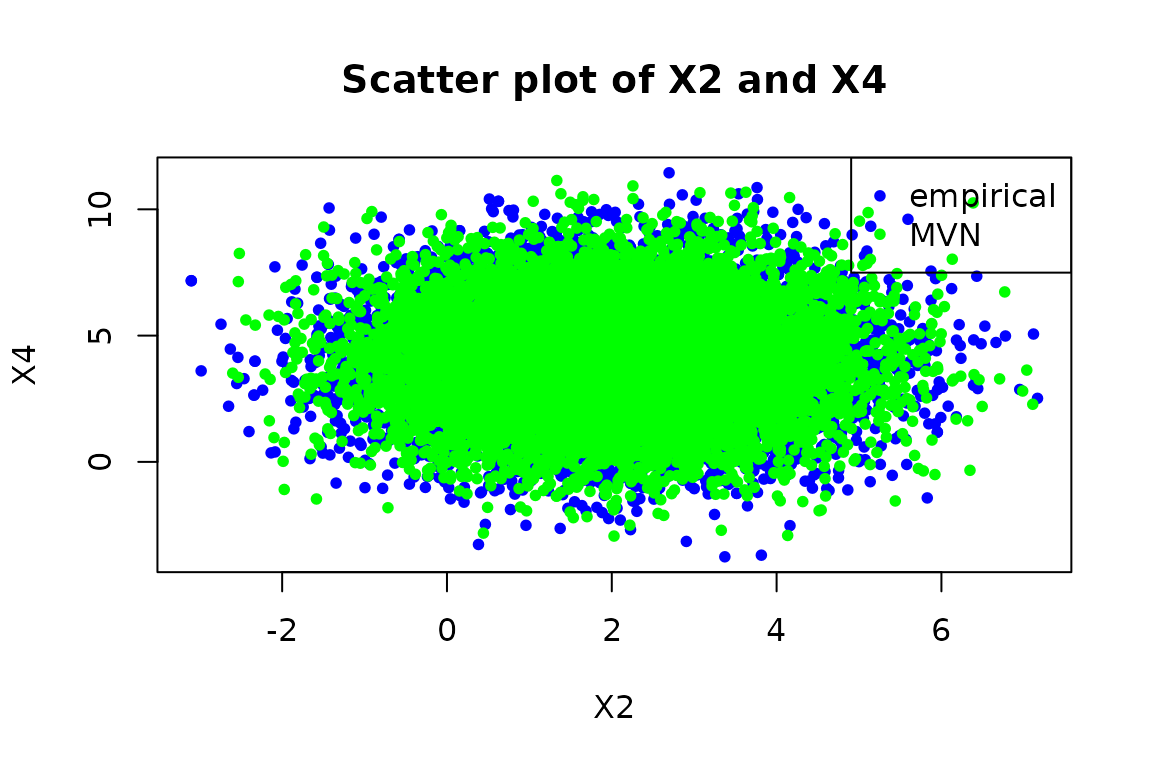
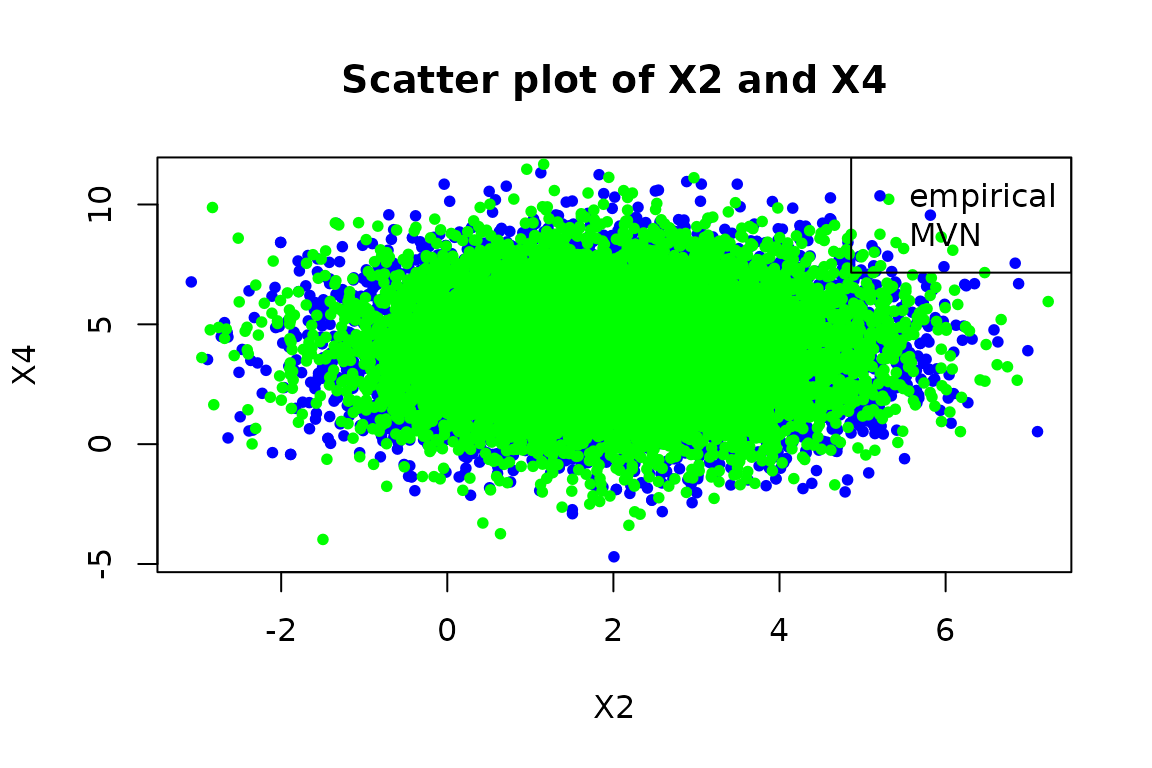
updates

diff --git a/docs/articles/example.html b/docs/articles/example.html
@@ -120,27 +120,27 @@
 <p>We have a sample of size <span class="math inline">\(n=100000\)</span> from the DGP. We show some observations from this sample with:</p>
 <div class="sourceCode" id="cb4"><pre class="downlit sourceCode r">
 <code class="sourceCode R"><span><span class="fu"><a href="https://rdrr.io/r/utils/head.html" class="external-link">head</a></span><span class="op">(</span><span class="va">data</span>, n<span class="op">=</span><span class="fl">6</span><span class="op">)</span></span>
-<span><span class="co">#&gt;        [,1] [,2] [,3] [,4] [,5]</span></span>
-<span><span class="co">#&gt; [1,] -0.379 3.34 4.66 3.53 2.03</span></span>
-<span><span class="co">#&gt; [2,] -1.244 1.72 1.78 5.94 3.10</span></span>
-<span><span class="co">#&gt; [3,]  1.416 4.76 1.97 2.19 7.57</span></span>
-<span><span class="co">#&gt; [4,]  0.782 3.62 2.28 5.15 3.54</span></span>
-<span><span class="co">#&gt; [5,]  0.972 2.41 2.19 3.54 1.30</span></span>
-<span><span class="co">#&gt; [6,]  1.460 1.46 4.06 5.47 5.20</span></span></code></pre></div>
+<span><span class="co">#&gt;        [,1]  [,2] [,3] [,4] [,5]</span></span>
+<span><span class="co">#&gt; [1,] -0.382 2.804 2.01 6.40 6.48</span></span>
+<span><span class="co">#&gt; [2,]  1.600 0.994 1.09 2.20 5.99</span></span>
+<span><span class="co">#&gt; [3,]  1.328 1.206 4.00 7.73 5.64</span></span>
+<span><span class="co">#&gt; [4,]  2.466 1.920 2.89 4.72 4.59</span></span>
+<span><span class="co">#&gt; [5,]  1.447 2.076 6.27 3.34 3.92</span></span>
+<span><span class="co">#&gt; [6,]  0.570 4.416 3.73 5.29 7.44</span></span></code></pre></div>
 <p>Now, we also construct a empirical distribution from the sample with:</p>
 <div class="sourceCode" id="cb5"><pre class="downlit sourceCode r">
 <code class="sourceCode R"><span><span class="va">emp</span> <span class="op">&lt;-</span> <span class="fu"><a href="../reference/empirical_dist.html">empirical_dist</a></span><span class="op">(</span><span class="va">data</span><span class="op">)</span></span>
 <span><span class="fu"><a href="https://rdrr.io/r/base/print.html" class="external-link">print</a></span><span class="op">(</span><span class="va">emp</span><span class="op">)</span></span>
 <span><span class="co">#&gt; Empirical Distribution </span></span>
 <span><span class="co">#&gt; Mean:</span></span>
-<span><span class="co">#&gt; [1] 1.00 2.00 3.00 4.01 4.99</span></span>
+<span><span class="co">#&gt; [1] 0.999 2.006 2.995 3.999 5.001</span></span>
 <span><span class="co">#&gt; Covariance:</span></span>
-<span><span class="co">#&gt;           [,1]      [,2]      [,3]     [,4]     [,5]</span></span>
-<span><span class="co">#&gt; [1,]  0.994590 -0.000318  0.000127 -0.00888  0.00530</span></span>
-<span><span class="co">#&gt; [2,] -0.000318  1.992270  0.006073 -0.01008 -0.00917</span></span>
-<span><span class="co">#&gt; [3,]  0.000127  0.006073  2.991805  0.00015 -0.01201</span></span>
-<span><span class="co">#&gt; [4,] -0.008884 -0.010080  0.000150  3.99985 -0.00469</span></span>
-<span><span class="co">#&gt; [5,]  0.005302 -0.009167 -0.012007 -0.00469  4.98894</span></span>
+<span><span class="co">#&gt;         [,1]      [,2]     [,3]      [,4]     [,5]</span></span>
+<span><span class="co">#&gt; [1,] 0.99943  0.001068  0.00755  0.003369  0.00700</span></span>
+<span><span class="co">#&gt; [2,] 0.00107  2.015409 -0.00392 -0.000896  0.01274</span></span>
+<span><span class="co">#&gt; [3,] 0.00755 -0.003921  2.98299  0.003300  0.00339</span></span>
+<span><span class="co">#&gt; [4,] 0.00337 -0.000896  0.00330  3.997603 -0.01367</span></span>
+<span><span class="co">#&gt; [5,] 0.00700  0.012742  0.00339 -0.013667  4.99170</span></span>
 <span><span class="co">#&gt; Number of observations: 100000</span></span></code></pre></div>
 <p>Let’s show the supports of the empirical distribution and the MVN:</p>
 <div class="sourceCode" id="cb6"><pre class="downlit sourceCode r">
@@ -153,17 +153,17 @@
 <span><span class="fu"><a href="https://rdrr.io/r/base/row.names.html" class="external-link">row.names</a></span><span class="op">(</span><span class="va">df</span><span class="op">)</span> <span class="op">&lt;-</span> <span class="fu"><a href="https://rdrr.io/r/base/paste.html" class="external-link">paste0</a></span><span class="op">(</span><span class="st">"param"</span>,<span class="fl">1</span><span class="op">:</span><span class="fu"><a href="https://rdrr.io/r/base/dim.html" class="external-link">dim</a></span><span class="op">(</span><span class="fu"><a href="../reference/sup.html">sup</a></span><span class="op">(</span><span class="va">M</span><span class="op">)</span><span class="op">)</span><span class="op">)</span></span>
 <span><span class="fu"><a href="https://rdrr.io/r/base/print.html" class="external-link">print</a></span><span class="op">(</span><span class="va">df</span><span class="op">)</span></span>
 <span><span class="co">#&gt;        supremum.mvn supremum.emp infimum.mvn infimum.emp</span></span>
-<span><span class="co">#&gt; param1          Inf         5.24        -Inf       -3.24</span></span>
-<span><span class="co">#&gt; param2          Inf         7.97        -Inf       -3.91</span></span>
-<span><span class="co">#&gt; param3          Inf        10.40        -Inf       -4.81</span></span>
-<span><span class="co">#&gt; param4          Inf        12.12        -Inf       -4.00</span></span>
-<span><span class="co">#&gt; param5          Inf        14.41        -Inf       -4.56</span></span></code></pre></div>
+<span><span class="co">#&gt; param1          Inf         5.38        -Inf       -3.36</span></span>
+<span><span class="co">#&gt; param2          Inf         7.76        -Inf       -4.08</span></span>
+<span><span class="co">#&gt; param3          Inf         9.96        -Inf       -4.12</span></span>
+<span><span class="co">#&gt; param4          Inf        12.80        -Inf       -4.70</span></span>
+<span><span class="co">#&gt; param5          Inf        16.21        -Inf       -4.28</span></span></code></pre></div>
 <p>Let’s compare the mean and covariance-variance matrices of both the MVN and the empirical distribution of the MVN. First, let’s look at the means.</p>
 <div class="sourceCode" id="cb7"><pre class="downlit sourceCode r">
 <code class="sourceCode R"><span><span class="fu"><a href="https://rdrr.io/r/base/mean.html" class="external-link">mean</a></span><span class="op">(</span><span class="va">M</span><span class="op">)</span></span>
 <span><span class="co">#&gt; [1] 1 2 3 4 5</span></span>
 <span><span class="fu"><a href="https://rdrr.io/r/base/mean.html" class="external-link">mean</a></span><span class="op">(</span><span class="va">emp</span><span class="op">)</span></span>
-<span><span class="co">#&gt; [1] 1.00 2.00 3.00 4.01 4.99</span></span></code></pre></div>
+<span><span class="co">#&gt; [1] 0.999 2.006 2.995 3.999 5.001</span></span></code></pre></div>
 <p>As expected, pretty close. Now let’s look at the variance-covariance:</p>
 <div class="sourceCode" id="cb8"><pre class="downlit sourceCode r">
 <code class="sourceCode R"><span><span class="fu"><a href="https://rdrr.io/r/stats/vcov.html" class="external-link">vcov</a></span><span class="op">(</span><span class="va">M</span><span class="op">)</span></span>
@@ -174,12 +174,12 @@
 <span><span class="co">#&gt; [4,]    0    0    0    4    0</span></span>
 <span><span class="co">#&gt; [5,]    0    0    0    0    5</span></span>
 <span><span class="fu"><a href="https://rdrr.io/r/stats/vcov.html" class="external-link">vcov</a></span><span class="op">(</span><span class="va">emp</span><span class="op">)</span></span>
-<span><span class="co">#&gt;           [,1]      [,2]      [,3]     [,4]     [,5]</span></span>
-<span><span class="co">#&gt; [1,]  0.994590 -0.000318  0.000127 -0.00888  0.00530</span></span>
-<span><span class="co">#&gt; [2,] -0.000318  1.992270  0.006073 -0.01008 -0.00917</span></span>
-<span><span class="co">#&gt; [3,]  0.000127  0.006073  2.991805  0.00015 -0.01201</span></span>
-<span><span class="co">#&gt; [4,] -0.008884 -0.010080  0.000150  3.99985 -0.00469</span></span>
-<span><span class="co">#&gt; [5,]  0.005302 -0.009167 -0.012007 -0.00469  4.98894</span></span></code></pre></div>
+<span><span class="co">#&gt;         [,1]      [,2]     [,3]      [,4]     [,5]</span></span>
+<span><span class="co">#&gt; [1,] 0.99943  0.001068  0.00755  0.003369  0.00700</span></span>
+<span><span class="co">#&gt; [2,] 0.00107  2.015409 -0.00392 -0.000896  0.01274</span></span>
+<span><span class="co">#&gt; [3,] 0.00755 -0.003921  2.98299  0.003300  0.00339</span></span>
+<span><span class="co">#&gt; [4,] 0.00337 -0.000896  0.00330  3.997603 -0.01367</span></span>
+<span><span class="co">#&gt; [5,] 0.00700  0.012742  0.00339 -0.013667  4.99170</span></span></code></pre></div>
 <p>The true variances of the population defined by the MVN <span class="math inline">\(M\)</span> is the diagonal of the variance-covariance matrix:</p>
 <div class="sourceCode" id="cb9"><pre class="downlit sourceCode r">
 <code class="sourceCode R"><span><span class="fu"><a href="https://rdrr.io/r/base/diag.html" class="external-link">diag</a></span><span class="op">(</span><span class="fu"><a href="https://rdrr.io/r/stats/vcov.html" class="external-link">vcov</a></span><span class="op">(</span><span class="va">M</span><span class="op">)</span><span class="op">)</span></span>
@@ -188,36 +188,36 @@
 <div class="sourceCode" id="cb10"><pre class="downlit sourceCode r">
 <code class="sourceCode R"><span><span class="va">mu.emp</span> <span class="op">&lt;-</span> <span class="fu"><a href="https://rdrr.io/r/base/mean.html" class="external-link">mean</a></span><span class="op">(</span><span class="va">emp</span><span class="op">)</span></span>
 <span><span class="fu"><a href="../reference/expectation.html">expectation</a></span><span class="op">(</span><span class="va">emp</span>, <span class="kw">function</span><span class="op">(</span><span class="va">x</span><span class="op">)</span> <span class="op">(</span><span class="va">x</span> <span class="op">-</span> <span class="va">mu.emp</span><span class="op">)</span><span class="op">^</span><span class="fl">2</span><span class="op">)</span></span>
-<span><span class="co">#&gt; [1] 0.995 1.992 2.992 4.000 4.989</span></span>
+<span><span class="co">#&gt; [1] 0.999 2.015 2.983 3.998 4.992</span></span>
 <span><span class="fu"><a href="../reference/expectation.html">expectation</a></span><span class="op">(</span><span class="va">M</span>, <span class="kw">function</span><span class="op">(</span><span class="va">x</span><span class="op">)</span> <span class="op">(</span><span class="va">x</span> <span class="op">-</span> <span class="fu"><a href="https://rdrr.io/r/base/mean.html" class="external-link">mean</a></span><span class="op">(</span><span class="va">M</span><span class="op">)</span><span class="op">)</span><span class="op">^</span><span class="fl">2</span>, control <span class="op">=</span> <span class="fu"><a href="https://rdrr.io/r/base/list.html" class="external-link">list</a></span><span class="op">(</span>n <span class="op">=</span> <span class="va">n</span><span class="op">)</span><span class="op">)</span></span>
-<span><span class="co">#&gt; [1] 1.00 2.00 3.00 4.00 5.02</span></span></code></pre></div>
+<span><span class="co">#&gt; [1] 1.01 1.99 2.99 4.00 4.99</span></span></code></pre></div>
 <p>We see that these are pretty good estimates, as the expectation is actually a Monte Carlo approximation. We can see the CI’s with:</p>
 <div class="sourceCode" id="cb11"><pre class="downlit sourceCode r">
 <code class="sourceCode R"><span><span class="fu"><a href="../reference/expectation.html">expectation</a></span><span class="op">(</span><span class="va">emp</span>, <span class="kw">function</span><span class="op">(</span><span class="va">x</span><span class="op">)</span> <span class="op">(</span><span class="va">x</span> <span class="op">-</span> <span class="va">mu.emp</span><span class="op">)</span><span class="op">^</span><span class="fl">2</span>, control <span class="op">=</span> <span class="fu"><a href="https://rdrr.io/r/base/list.html" class="external-link">list</a></span><span class="op">(</span>compute_stats <span class="op">=</span> <span class="cn">TRUE</span><span class="op">)</span><span class="op">)</span></span>
 <span><span class="co">#&gt; $value</span></span>
-<span><span class="co">#&gt; [1] 0.995 1.992 2.992 4.000 4.989</span></span>
+<span><span class="co">#&gt; [1] 0.999 2.015 2.983 3.998 4.992</span></span>
 <span><span class="co">#&gt; </span></span>
 <span><span class="co">#&gt; $ci</span></span>
 <span><span class="co">#&gt;       [,1] [,2]</span></span>
-<span><span class="co">#&gt; [1,] 0.986 1.00</span></span>
-<span><span class="co">#&gt; [2,] 1.975 2.01</span></span>
-<span><span class="co">#&gt; [3,] 2.966 3.02</span></span>
-<span><span class="co">#&gt; [4,] 3.965 4.03</span></span>
-<span><span class="co">#&gt; [5,] 4.945 5.03</span></span>
+<span><span class="co">#&gt; [1,] 0.991 1.01</span></span>
+<span><span class="co">#&gt; [2,] 1.998 2.03</span></span>
+<span><span class="co">#&gt; [3,] 2.957 3.01</span></span>
+<span><span class="co">#&gt; [4,] 3.962 4.03</span></span>
+<span><span class="co">#&gt; [5,] 4.948 5.04</span></span>
 <span><span class="co">#&gt; </span></span>
 <span><span class="co">#&gt; $n</span></span>
 <span><span class="co">#&gt; [1] 100000</span></span>
 <span><span class="fu"><a href="../reference/expectation.html">expectation</a></span><span class="op">(</span><span class="va">M</span>, <span class="kw">function</span><span class="op">(</span><span class="va">x</span><span class="op">)</span> <span class="op">(</span><span class="va">x</span> <span class="op">-</span> <span class="fu"><a href="https://rdrr.io/r/base/mean.html" class="external-link">mean</a></span><span class="op">(</span><span class="va">M</span><span class="op">)</span><span class="op">)</span><span class="op">^</span><span class="fl">2</span>, control <span class="op">=</span> <span class="fu"><a href="https://rdrr.io/r/base/list.html" class="external-link">list</a></span><span class="op">(</span>n <span class="op">=</span> <span class="va">n</span>, compute_stats <span class="op">=</span> <span class="cn">TRUE</span><span class="op">)</span><span class="op">)</span></span>
 <span><span class="co">#&gt; $value</span></span>
-<span><span class="co">#&gt; [1] 0.995 1.986 3.015 4.000 4.973</span></span>
+<span><span class="co">#&gt; [1] 1.00 2.01 3.02 4.00 5.00</span></span>
 <span><span class="co">#&gt; </span></span>
 <span><span class="co">#&gt; $ci</span></span>
 <span><span class="co">#&gt;       [,1] [,2]</span></span>
-<span><span class="co">#&gt; [1,] 0.987 1.00</span></span>
-<span><span class="co">#&gt; [2,] 1.969 2.00</span></span>
-<span><span class="co">#&gt; [3,] 2.989 3.04</span></span>
-<span><span class="co">#&gt; [4,] 3.965 4.03</span></span>
-<span><span class="co">#&gt; [5,] 4.929 5.02</span></span>
+<span><span class="co">#&gt; [1,] 0.994 1.01</span></span>
+<span><span class="co">#&gt; [2,] 1.989 2.02</span></span>
+<span><span class="co">#&gt; [3,] 2.991 3.04</span></span>
+<span><span class="co">#&gt; [4,] 3.961 4.03</span></span>
+<span><span class="co">#&gt; [5,] 4.960 5.05</span></span>
 <span><span class="co">#&gt; </span></span>
 <span><span class="co">#&gt; $n</span></span>
 <span><span class="co">#&gt; [1] 100000</span></span></code></pre></div>
@@ -225,9 +225,9 @@
 <div class="sourceCode" id="cb12"><pre class="downlit sourceCode r">
 <code class="sourceCode R"><span><span class="va">mu.emp</span> <span class="op">&lt;-</span> <span class="fu"><a href="https://rdrr.io/r/base/mean.html" class="external-link">mean</a></span><span class="op">(</span><span class="va">emp</span><span class="op">)</span></span>
 <span><span class="fu"><a href="https://rdrr.io/r/base/mean.html" class="external-link">mean</a></span><span class="op">(</span><span class="fu"><a href="../reference/rmap.html">rmap</a></span><span class="op">(</span><span class="va">emp</span>, <span class="kw">function</span><span class="op">(</span><span class="va">x</span><span class="op">)</span> <span class="op">(</span><span class="va">x</span> <span class="op">-</span> <span class="va">mu.emp</span><span class="op">)</span><span class="op">^</span><span class="fl">2</span><span class="op">)</span><span class="op">)</span></span>
-<span><span class="co">#&gt; [1] 0.995 1.992 2.992 4.000 4.989</span></span>
+<span><span class="co">#&gt; [1] 0.999 2.015 2.983 3.998 4.992</span></span>
 <span><span class="fu"><a href="https://rdrr.io/r/base/mean.html" class="external-link">mean</a></span><span class="op">(</span><span class="fu"><a href="../reference/rmap.html">rmap</a></span><span class="op">(</span><span class="va">M</span>, <span class="kw">function</span><span class="op">(</span><span class="va">x</span><span class="op">)</span> <span class="op">(</span><span class="va">x</span> <span class="op">-</span> <span class="fu"><a href="https://rdrr.io/r/base/mean.html" class="external-link">mean</a></span><span class="op">(</span><span class="va">M</span><span class="op">)</span><span class="op">)</span><span class="op">^</span><span class="fl">2</span>, n <span class="op">=</span> <span class="va">n</span><span class="op">)</span><span class="op">)</span></span>
-<span><span class="co">#&gt; [1] 0.993 2.007 3.012 3.968 5.010</span></span></code></pre></div>
+<span><span class="co">#&gt; [1] 0.999 1.982 2.987 3.998 4.980</span></span></code></pre></div>
 <p>These are both reasonable estimates of the variance.</p>
 <p>The PDF of the empirical is not very useful – it gets <span class="math inline">\(1/n\)</span> for each observation:</p>
 <div class="sourceCode" id="cb13"><pre class="downlit sourceCode r">
@@ -237,9 +237,9 @@
 <span>  ob <span class="op">=</span> <span class="fu"><a href="https://rdrr.io/r/base/c.html" class="external-link">c</a></span><span class="op">(</span><span class="st">"empirical(x)"</span>, <span class="st">"MVN(y)"</span><span class="op">)</span>,</span>
 <span>  pdf.emp <span class="op">=</span> <span class="fu"><a href="https://rdrr.io/r/base/c.html" class="external-link">c</a></span><span class="op">(</span><span class="fu"><a href="https://rdrr.io/r/stats/density.html" class="external-link">density</a></span><span class="op">(</span><span class="va">emp</span><span class="op">)</span><span class="op">(</span><span class="va">x</span><span class="op">)</span>, <span class="fu"><a href="https://rdrr.io/r/stats/density.html" class="external-link">density</a></span><span class="op">(</span><span class="va">emp</span><span class="op">)</span><span class="op">(</span><span class="va">y</span><span class="op">)</span><span class="op">)</span>,</span>
 <span>  pdf.mvn <span class="op">=</span> <span class="fu"><a href="https://rdrr.io/r/base/c.html" class="external-link">c</a></span><span class="op">(</span><span class="fu"><a href="https://rdrr.io/r/stats/density.html" class="external-link">density</a></span><span class="op">(</span><span class="va">M</span><span class="op">)</span><span class="op">(</span><span class="va">x</span><span class="op">)</span>, <span class="fu"><a href="https://rdrr.io/r/stats/density.html" class="external-link">density</a></span><span class="op">(</span><span class="va">M</span><span class="op">)</span><span class="op">(</span><span class="va">y</span><span class="op">)</span><span class="op">)</span><span class="op">)</span></span>
-<span><span class="co">#&gt;             ob pdf.emp   pdf.mvn</span></span>
-<span><span class="co">#&gt; 1 empirical(x) 0.00001 0.0000748</span></span>
-<span><span class="co">#&gt; 2       MVN(y) 0.00000 0.0000307</span></span></code></pre></div>
+<span><span class="co">#&gt;             ob pdf.emp  pdf.mvn</span></span>
+<span><span class="co">#&gt; 1 empirical(x) 0.00001 0.000214</span></span>
+<span><span class="co">#&gt; 2       MVN(y) 0.00000 0.000220</span></span></code></pre></div>
 <p>Let’s plot the CDF of marginal distribution of <span class="math inline">\(X_1\)</span>:</p>
 <div class="sourceCode" id="cb14"><pre class="downlit sourceCode r">
 <code class="sourceCode R"><span><span class="va">X1.emp</span> <span class="op">&lt;-</span> <span class="fu"><a href="../reference/marginal.html">marginal</a></span><span class="op">(</span><span class="va">emp</span>, <span class="fl">1</span><span class="op">)</span></span>
@@ -285,9 +285,9 @@
 <p>Now we show the mean of the conditional distribution, <span class="math inline">\(X | X_1 + X_2 &lt; 0\)</span>:</p>
 <div class="sourceCode" id="cb19"><pre class="downlit sourceCode r">
 <code class="sourceCode R"><span><span class="fu"><a href="https://rdrr.io/r/base/mean.html" class="external-link">mean</a></span><span class="op">(</span><span class="fu"><a href="../reference/conditional.html">conditional</a></span><span class="op">(</span><span class="va">emp</span>, <span class="kw">function</span><span class="op">(</span><span class="va">x</span><span class="op">)</span> <span class="va">x</span><span class="op">[</span><span class="fl">1</span><span class="op">]</span> <span class="op">+</span> <span class="va">x</span><span class="op">[</span><span class="fl">2</span><span class="op">]</span> <span class="op">&lt;</span> <span class="fl">0</span><span class="op">)</span><span class="op">)</span></span>
-<span><span class="co">#&gt; [1] -0.235 -0.465  2.952  4.038  4.949</span></span>
+<span><span class="co">#&gt; [1] -0.242 -0.470  2.962  3.976  5.007</span></span>
 <span><span class="fu"><a href="https://rdrr.io/r/base/mean.html" class="external-link">mean</a></span><span class="op">(</span><span class="fu"><a href="../reference/conditional.html">conditional</a></span><span class="op">(</span><span class="va">M</span>, <span class="kw">function</span><span class="op">(</span><span class="va">x</span><span class="op">)</span> <span class="va">x</span><span class="op">[</span><span class="fl">1</span><span class="op">]</span> <span class="op">+</span> <span class="va">x</span><span class="op">[</span><span class="fl">2</span><span class="op">]</span> <span class="op">&lt;</span> <span class="fl">0</span><span class="op">)</span><span class="op">)</span></span>
-<span><span class="co">#&gt; [1] -0.205 -0.484  2.955  4.217  4.980</span></span></code></pre></div>
+<span><span class="co">#&gt; [1] -0.274 -0.450  3.091  4.049  4.834</span></span></code></pre></div>
 <p>I didn’t do the analysis of what this distribution’s mean should theoretically be, if it’s even practical to derive, but it doesn’t look unreasonable. We see that the mean of the first two components are negative, which makes sense: the sum of the first two components is negative, so the mean of the first two components should be negative.</p>
 </div>
   </div>
